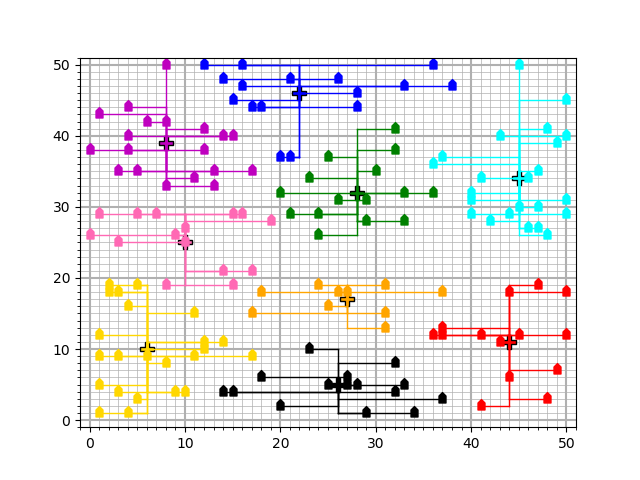
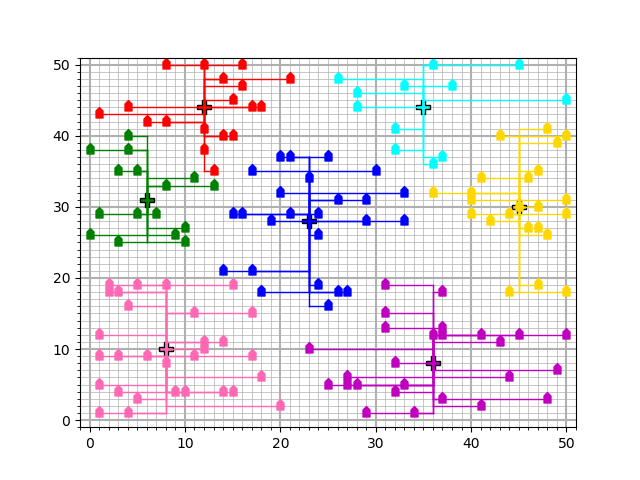
synchronize

Changed region(s): [[0.125, 0.125, 0.9062, 0.875]]

diff --git a/main.py b/main.py
@@ -155,22 +155,27 @@ def input_randclimber(batteries, houses, command, base, repeats=1):
 
 
 def input_kmeans(batteries, houses, command, repeats=1):
-    print("how many clusters?")
-    k = int(input("> "))
-    clusters, connectedhomes = KmeansClusterdistance(houses, batteries, k)
-<<<<<<< HEAD
-    # print(clusters, connectedhomes)
-    b, h = clustertoclasses(batteries, houses, clusters, connectedhomes)
-    batteries = b
-    houses = h
-    for bat in batteries:
-        print(batteries[bat].posx)
-        print(batteries[bat].posy)
-=======
-    clustertoclasses(batteries, houses, clusters, connectedhomes)
->>>>>>> 6634557e79eeee9ca21a3ccff9590d9176e5bc27
+    # print("how many clusters?")
+    # k = int(input("> "))
+    bestprice = 100000
+    for k in range(5, 12):
+        clusters, connectedhomes = KmeansClusterdistance(houses, batteries, k)
+        # print(clusters, connectedhomes)
+        b, h = clustertoclasses(batteries, houses, clusters, connectedhomes)
+        if b == False:
+            k -= 1
+            continue
+        batteries = b
+        houses = h
+        dist, distdict, lowbprice = distancearr(batteries, houses)
+        price = price_calc(batteries, distdict)
+        if price < bestprice:
+            print(price)
+            print(k)
+            bestprice = price
+            bestbat = batteries
+    batteries = bestbat
     visualize(batteries, houses, argv[1], command)
-
 
 def input_batoptimize(batteries, houses, command, base, repeats=1):
     command = base + "-->" + "hillclimber" + "-->" + "optimize"

diff --git a/Helper_algorithms/clustertoclasses.py b/Helper_algorithms/clustertoclasses.py
@@ -4,14 +4,11 @@ from Classes.thegrid import Grid
 def clustertoclasses(b, h, cluster, connectedhomes):
 
     b = {}
-    print(cluster)
-    print(connectedhomes)
     for key in connectedhomes:
         outputcluster = 0
         for houseID in connectedhomes[key]:
             outputcluster += h[houseID].output
         cluster[key].append(outputcluster)
-    print(cluster)
 
     index = 0
     for row in cluster:
@@ -20,16 +17,22 @@ def clustertoclasses(b, h, cluster, connectedhomes):
         id = row[2]
         if row[3] < 450:
             capacity = 450
+            price = 900
         elif row[3] < 900:
             capacity = 900
+            price = 1350
         elif row[3] < 1800:
             capacity = 1800
+            price = 1800
+        elif row[3] > 1800:
+            return False, False
         filled = row[3]
 
         # Make battery object with id as key
         battery = Battery(id, posx, posy, capacity)
         b[id] = battery
         b[id].filled = filled
+        b[id].price = price
         for house in connectedhomes[index]:
             b[id].connected.append(h[house])
         index += 1

diff --git a/Algorithms/KmeansClusterbatteries.py b/Algorithms/KmeansClusterbatteries.py
@@ -1,7 +1,6 @@
 import random
 from copy import deepcopy
 
-
 def KmeansClusterbatteries(b, h):
     """This function implements Kmeansclustering etc..."""
 
@@ -13,11 +12,7 @@ def KmeansClusterbatteries(b, h):
         totalcaphouse += h[house].output
     batterylist_pos = {0: ["Powerstar", 450, 900, 0, 0, 0], 1: ["Imerse-II", 900, 1350, 0, 0, 0], 2: ["Imerse-III", 1800, 1800, 0, 0, 0]}
 
-<<<<<<< HEAD
     for batteryamount in range(5, 18):
-=======
-    while batteryamount < 18:
->>>>>>> 6634557e79eeee9ca21a3ccff9590d9176e5bc27
         used_batteries = {}
         batteryamountlist = range(batteryamount)
         bestfit = 10000
@@ -77,5 +72,4 @@ def KmeansClusterbatteries(b, h):
                     used_batteries[i][0][2] = round(totaly/totalh)
                 if old_used_batteries[i][0][1] == used_batteries[i][0][1] and old_used_batteries[i][0][2] == used_batteries[i][0][2]:
                     startover += 1
-                    print(used_batteries, end="\r")
     return used_batteries, housecoordinates

diff --git a/Helper_algorithms/price_calc.py b/Helper_algorithms/price_calc.py
@@ -4,5 +4,5 @@ def price_calc(b, distdict):
     for bat in b:
         for house in b[bat].connected:
             price += distdict[house.id][bat] * 9
-    price += 25000
+        price += b[bat].price
     return price

diff --git a/Classes/battery.py b/Classes/battery.py
@@ -8,6 +8,7 @@ class Battery(object):
         self.capacity = capacity
         self.filled = 0
         self.connected = []
+        self.price = 5000
 
     def __str__(self):
         return f"Battery nr.{self.id}"
